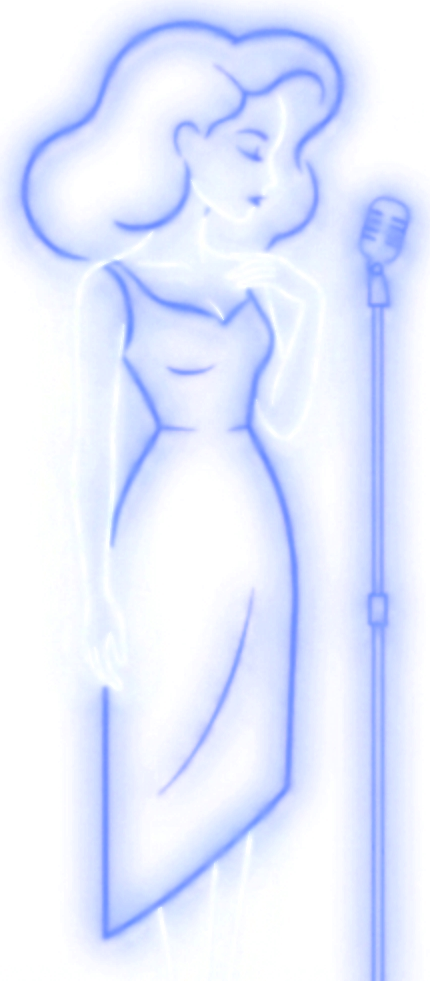
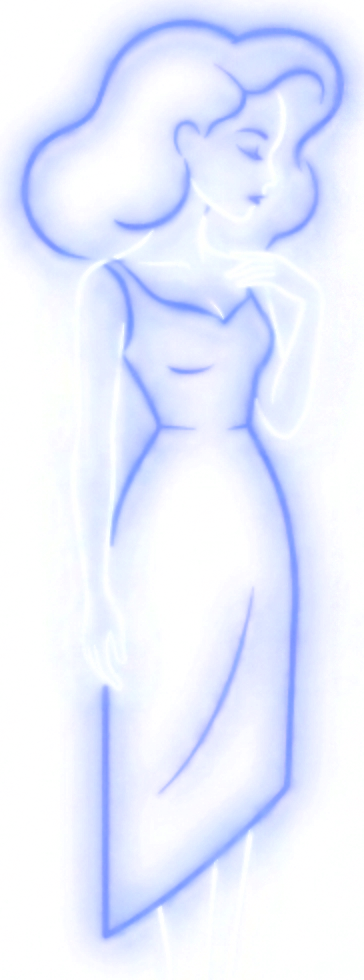
移除舞台实验夜莺基础Neon的麦克风

diff --git a/experiments/line-stage-study/index.html b/experiments/line-stage-study/index.html
@@ -6,4 +6,4 @@
 </section><aside class="editor-sidebar" aria-label="画面编辑"><h2>画面编辑</h2><section class="controls" aria-label="人物风格"><h3>人物风格</h3><div><span>人物画风 · 夜莺</span><div id="cast-options"></div><button id="flat-compare">平面后处理六格对照</button><button id="cast-compare">画风并排比较</button></div></section><button id="style-treatment">使用本画风推荐描线</button><details id="ink-editor" open></details><section class="controls" aria-label="布景与画面"><h3>布景与画面</h3><div class="scene-switches"><button id="mask">光孔遮罩 开</button><button id="reaction">背景反应 开</button></div><div><span>实验布景</span><button data-scene="lamp">路灯下</button><button data-scene="warehouse">仓库檐下</button></div><div><span>远景</span><button data-bg="absent">完全退场</button><button data-bg="fog">重度失焦</button><button data-bg="trace">3D 轮廓残影</button><label>模糊 <input id="blur" type="range" min="0" max="48" value="28"><output id="blur-value">28</output></label><label>残留 <input id="opacity" type="range" min="0" max="60" value="24"><output id="opacity-value">24%</output></label></div><div><span>画面融合</span><button data-person="raw">画稿原色</button><button data-person="tone">低饱和调色</button><button data-person="light">共同受光与投影</button><label>线条 <input id="lines" type="range" min="15" max="100" value="65"><output id="lines-value">65%</output></label><button id="bg-compare">三种远景对照</button></div></section>
 
 <footer><p id="note"></p><p>切换画风和参数保留当前对白、时间与站位。新画稿为探索方案；旧稿可作对照。沿用 Claude 路灯戏的逐字字幕、脚步、电流声、灯光节拍与离场停顿；人物保持同一姿势以比较画风。</p></footer></aside></div><section id="comparison" hidden><p id="comparison-note"></p><div class="comparison-grid" id="comparison-grid"></div></section>
-</main><script type="module" src="main.js?v=original-cast-1"></script></body></html>
+</main><script type="module" src="main.js?v=no-mic-1"></script></body></html>

diff --git a/experiments/line-stage-study/cast.js b/experiments/line-stage-study/cast.js
@@ -1,6 +1,6 @@
 export const castStyles=[
  {id:'original',name:'原版立绘 · 两人',note:'夜莺和尼尔使用实验原版填色立绘，夜莺为外套与手包。',both:true,files:{neil:'assets/neil.png',night:'assets/nightingale.png'}},
- {id:'originalNeon',name:'原版 Neon · 两人',note:'两人均使用 Unity 原版 Neon 图；保留香烟与麦克风，夜莺源图下端本就截断，未补画。',both:true,folder:'original-neon',neilFolder:'original-neon'},
+ {id:'originalNeon',name:'原版 Neon · 两人',note:'两人均使用 Unity 原版 Neon 图；尼尔保留香烟，夜莺去掉麦克风，夜莺源图下端本就截断，未补画。',both:true,folder:'original-neon',neilFolder:'original-neon'},
  {id:'neonEdge',name:'N2 断线暗面',note:'来自原 Neon：深色实体与局部浅色长弧，卷发与肩颈形成辨识；夜莺保留礼服，尼尔提炼原 Neon 的低圆帽与侧脸。人物统一中性姿势，自带描线无需额外加线。',folder:'05-neon-selective-edge',neilFolder:'08-neil-n2-neon'},
  {id:'curlCoat',name:'C1 卷发外套',note:'在 C 上恢复额前发浪、卷发和细长侧脸；保留户外外套与手包，尼尔提炼原 Neon 轮廓。人物统一中性姿势，可点击推荐描线补浅色外缘。',folder:'06-c-curl-coat',neilFolder:'09-neil-c1-neon'},
  {id:'storySoft',name:'G1 柔软手绘',note:'借鉴 Florence 的手绘叙事表达：柔软墨线、石灰肤色与少量平涂，保留夜莺的卷发和谨慎神情。',folder:'20-story-soft-ink',neilFolder:'09-neil-c1-neon'},
@@ -15,5 +15,5 @@ export const castStyles=[
 export function sprite(styleId,actor,pose){
  const style=castStyles.find(s=>s.id===styleId);if(!style)throw Error(`Unknown cast style: ${styleId}`);
  if(style.files)return style.files[actor];
- return `assets/${actor==='neil'?style.neilFolder:style.folder}/${actor}-neutral.png`;
+ return `assets/${actor==='neil'?style.neilFolder:style.folder}/${actor}-neutral.png${styleId==='originalNeon'&&actor==='night'?'?v=no-mic-1':''}`;
 }

diff --git a/experiments/line-stage-study/main.js b/experiments/line-stage-study/main.js
@@ -1,6 +1,6 @@
 import {scenery} from './scenery.js';
 import {story,performanceAt,starts} from './story.js';
-import {castStyles,sprite} from './cast.js?v=original-cast-1';
+import {castStyles,sprite} from './cast.js?v=no-mic-1';
 import {StoryPlayer} from './player.js';
 import {StageSound} from './sound.js';
 import {defaultInk,flatTreatments,mountInkEditor,applyInk} from './editor.js?v=flat-study-1';

diff --git a/experiments/line-stage-study/art/original-cast.md b/experiments/line-stage-study/art/original-cast.md
@@ -3,3 +3,5 @@
 新增原版立绘、原版 Neon 两个选项，选中时同时替换尼尔和夜莺，其余人物方向继续固定尼尔 C1。原版立绘使用已有 assets/neil.png 与 nightingale.png；原版 Neon 从 Unity Portraits/Neon 的基础 PNG 导入，通过最大颜色通道转换黑底为透明并裁去外围空白，保留原画发光与道具。导入脚本 import-original-cast.mjs。夜莺原版 Neon 源图脚部截断，本次未生成补画。夜莺原版两种图朝右，舞台默认镜像朝左；其他候选已朝左。
 
 模块语法和 12 个选项两人资源路径检查通过。未运行浏览器交互或 Unity。
+
+夜莺基础 Neon 已去掉麦克风与整根支架。使用 Tripo banana2 单图编辑，10 credits；提示词要求只删除麦克风、保留人物及原画幅。人工审阅黑底结果确认道具消失、人物造型与白蓝线条保留。新源图与 manifest 位于 art/night-neon-no-microphone/，导入脚本改用此图并重新生成透明 PNG。修改实验资源，未覆盖 Unity 或角色库。JS 语法检查通过；未运行浏览器或 Unity。
